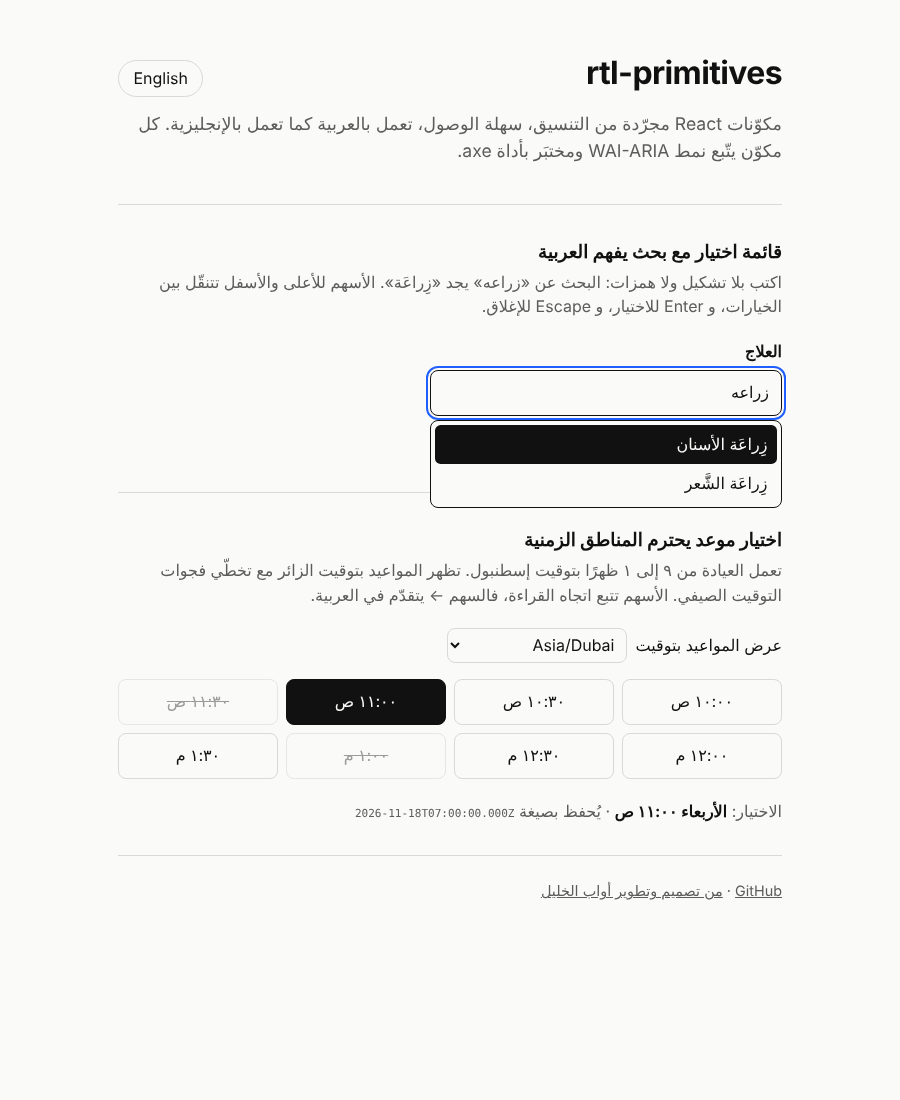
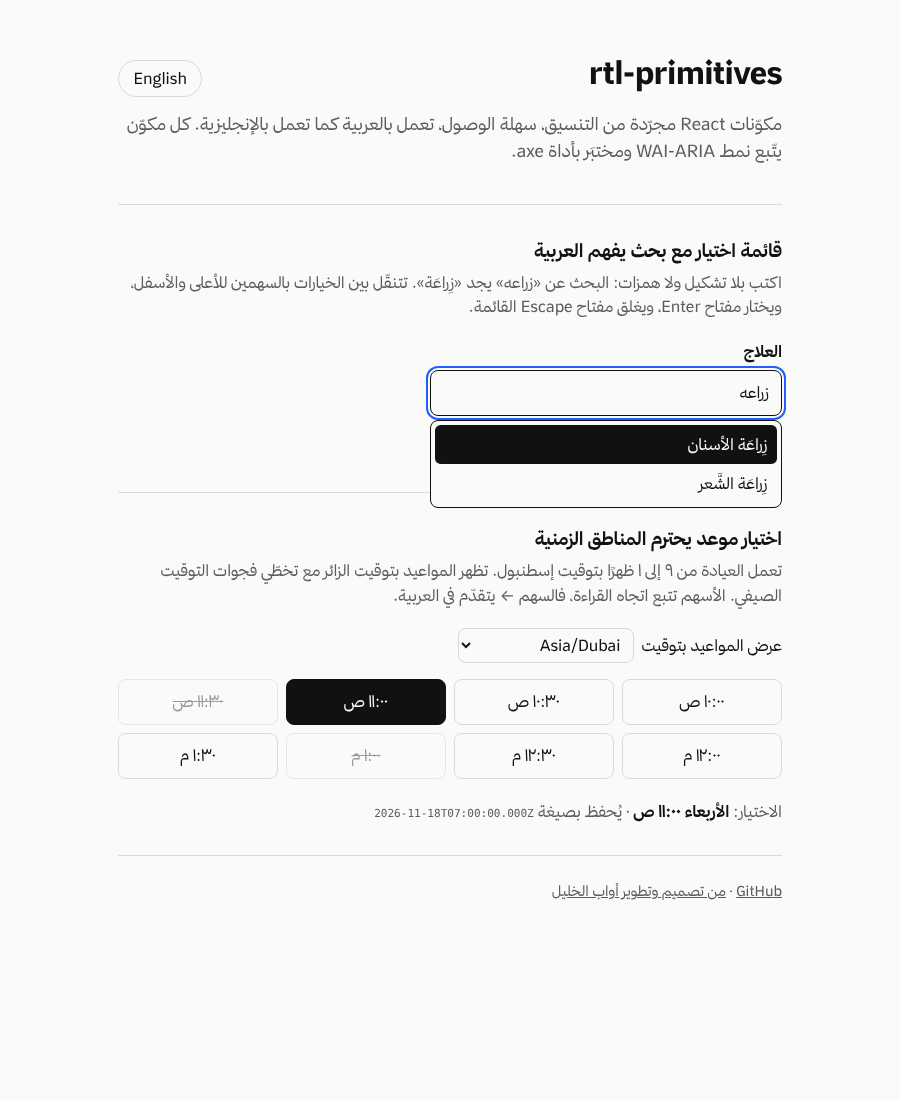
Demo: Thmanyah Sans typography (not bundled), Plex fallback
Claude-Session: https://claude.ai/code/session_01YDGonSwi8W2LCgehGTFCZR

diff --git a/demo/main.tsx b/demo/main.tsx
@@ -40,7 +40,7 @@ const t = {
     title: "rtl-primitives",
     lead: "مكوّنات React مجرّدة من التنسيق، سهلة الوصول، تعمل بالعربية كما تعمل بالإنجليزية. كل مكوّن يتّبع نمط WAI-ARIA ومختبَر بأداة axe.",
     cbxTitle: "قائمة اختيار مع بحث يفهم العربية",
-    cbxBody: "اكتب بلا تشكيل ولا همزات: البحث عن «زراعه» يجد «زِراعَة». الأسهم للأعلى والأسفل تتنقّل بين الخيارات، و Enter للاختيار، و Escape للإغلاق.",
+    cbxBody: "اكتب بلا تشكيل ولا همزات: البحث عن «زراعه» يجد «زِراعَة». تتنقّل بين الخيارات بالسهمين للأعلى والأسفل، ويختار مفتاح Enter، ويغلق مفتاح Escape القائمة.",
     cbxLabel: "العلاج",
     cbxEmpty: "لا يوجد علاج مطابق",
     picked: "الاختيار",

diff --git a/demo/index.html b/demo/index.html
@@ -4,6 +4,9 @@
     <meta charset="UTF-8" />
     <meta name="viewport" content="width=device-width, initial-scale=1.0" />
     <title>rtl-primitives — accessible React components for Arabic and RTL</title>
+    <link rel="preconnect" href="https://fonts.googleapis.com" />
+    <link rel="preconnect" href="https://fonts.gstatic.com" crossorigin />
+    <link rel="stylesheet" href="https://fonts.googleapis.com/css2?family=IBM+Plex+Sans+Arabic:wght@400;600&display=swap" />
     <meta name="description" content="An Arabic-aware combobox and a time-zone-correct time-slot picker, built to the WAI-ARIA patterns and tested with axe." />
   </head>
   <body>

diff --git a/demo/styles.css b/demo/styles.css
@@ -5,7 +5,9 @@
   --paper: #fafaf8;
   --accent: #111;
   --focus: #1f5eff;
-  font-family: "IBM Plex Sans Arabic", system-ui, -apple-system, "Segoe UI", sans-serif;
+  /* Thmanyah Sans is used when installed locally; its license does not allow shipping the font files,
+     so the public demo falls back to IBM Plex Sans Arabic. */
+  font-family: "thmanyah sans", "IBM Plex Sans Arabic", system-ui, -apple-system, "Segoe UI", sans-serif;
   color: var(--ink);
   background: var(--paper);
   line-height: 1.55;

diff --git a/README.md b/README.md
@@ -62,6 +62,8 @@ import { Combobox, TimeSlotPicker } from "rtl-primitives";
 
 The components ship no CSS. Style them through their roles and `data-*` attributes: `[data-active]` on the highlighted option, and `[data-selected]` and `[data-disabled]` on time slots. See [`demo/styles.css`](demo/styles.css) for a complete example.
 
+The screenshots use [Thmanyah Sans](https://thmanyah.com). Its license doesn't allow redistributing the font files, so they aren't in this repo: the demo uses Thmanyah Sans if you have it installed and falls back to IBM Plex Sans Arabic.
+
 ## Tests
 
 `npm test` runs 31 tests in Vitest with Testing Library:
